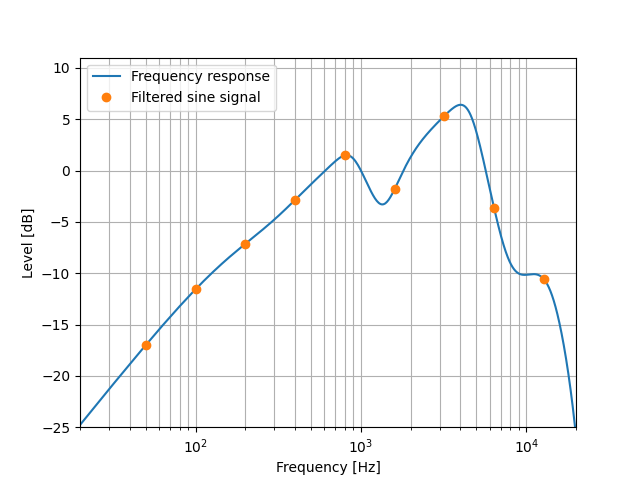
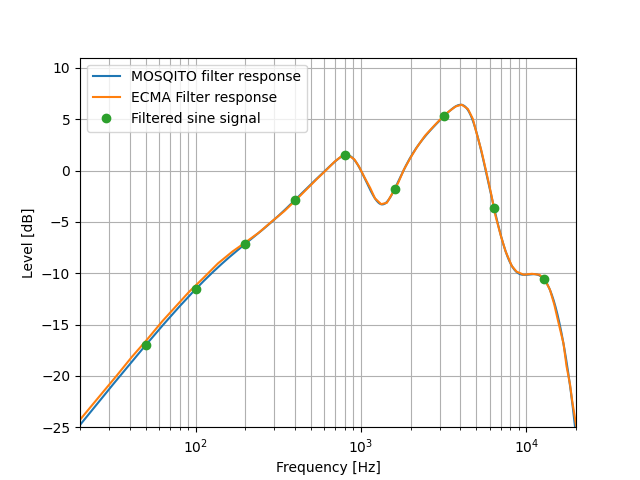
[NF] ear_filter_design compared with ECMA data for validation

diff --git a/validations/loudness_ecma/input/ear_filter_ecma.py b/validations/loudness_ecma/input/ear_filter_ecma.py
@@ -1,0 +1,131 @@
+# Plot-digitized from ECMA 418-2:2020 Figure 3
+
+freq = [
+    20,
+    26.16284,
+    33.3991,
+    41.103348,
+    50.8945,
+    63.01799,
+    75.68363,
+    90.894875,
+    111.8618,
+    136.82736,
+    167.3648,
+    197.35486,
+    241.40096,
+    288.15436,
+    343.9627,
+    400.67526,
+    478.27615,
+    540.3855,
+    618.06067,
+    694.07245,
+    760.6301,
+    838.6746,
+    913.50507,
+    976.95526,
+    1044.8126,
+    1138.0356,
+    1217.0813,
+    1325.6749,
+    1435.1698,
+    1525.5125,
+    1682.0377,
+    1820.9664,
+    1995.5869,
+    2173.6426,
+    2440.9666,
+    2774.8403,
+    3232.3562,
+    3742.3909,
+    4076.3044,
+    4440.011,
+    4748.4053,
+    5016.5947,
+    5365.0376,
+    5808.1655,
+    6136.21,
+    6522.4785,
+    7018.231,
+    7505.7026,
+    8175.3965,
+    8743.243,
+    9640.344,
+    10825.955,
+    12009.846,
+    13001.805,
+    13904.884,
+    14780.185,
+    15614.967,
+    16801.809,
+    17535.363,
+    18413.008,
+    18983.705,
+    20055.902,
+]
+
+level = [
+    -24.274391,
+    -22.012196,
+    -19.963415,
+    -18.170732,
+    -16.463415,
+    -14.670732,
+    -13.262196,
+    -11.853659,
+    -10.445122,
+    -9.036586,
+    -7.884146,
+    -7.0731707,
+    -6.0487804,
+    -4.981707,
+    -3.957317,
+    -2.932927,
+    -1.695122,
+    -0.8414634,
+    0.05487805,
+    0.86585367,
+    1.3780488,
+    1.5060976,
+    1.0792683,
+    0.35365853,
+    -0.58536583,
+    -1.695122,
+    -2.7195122,
+    -3.2743902,
+    -3.1463416,
+    -2.4207318,
+    -1.1829268,
+    0.09756097,
+    1.25,
+    2.2317073,
+    3.3841465,
+    4.365854,
+    5.47561,
+    6.243902,
+    6.414634,
+    5.987805,
+    5.0487804,
+    3.597561,
+    1.8902439,
+    -0.54268295,
+    -2.292683,
+    -4.4268293,
+    -6.347561,
+    -7.884146,
+    -9.292683,
+    -9.847561,
+    -10.146341,
+    -10.060976,
+    -10.146341,
+    -10.658537,
+    -11.597561,
+    -13.04878,
+    -14.713414,
+    -16.84756,
+    -19.067074,
+    -20.859756,
+    -22.481707,
+    -24.871952,
+]

diff --git a/validations/loudness_ecma/valid_ear_filter_design.py b/validations/loudness_ecma/valid_ear_filter_design.py
@@ -8,12 +8,18 @@ from numpy import (
     sqrt,
     mean,
 )
-from numpy.random import normal as random
 import matplotlib.pyplot as plt
 
 from mosqito.functions.loudness_ecma_spain.ear_filter_design import ear_filter_design
 from mosqito.functions.loudness_ecma_spain.sine_wave_generator import (
     sine_wave_generator,
+)
+
+# Data import
+# Threshold in quiet
+from validations.loudness_ecma.input.ear_filter_ecma import (
+    freq as freq_ecma,
+    level as level_ecma,
 )
 
 # generate outer and middle/inner ear filter coeeficient
@@ -46,8 +52,9 @@ while f < 20000:
     freq.append(f)
     f *= 2
 
-# Generate figure to be compared to figure F.3 from ECMA-74:2019
-plt.semilogx(w, db, label="Frequency response")
+# Generate figure to be compared to Figure 3 from ECMA 418-2:2020
+plt.semilogx(w, db, label="MOSQITO filter response")
+plt.semilogx(freq_ecma, level_ecma, label="ECMA Filter response")
 plt.grid(which="both")
 plt.xlim((20, 20000))
 plt.ylim((-25, 11))
